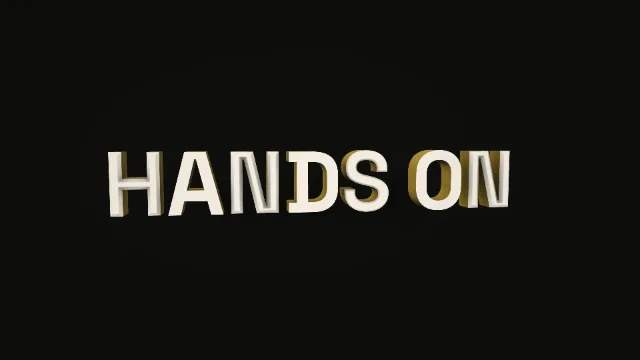
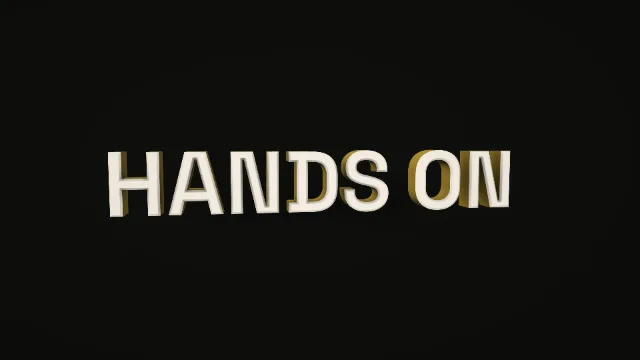
fix(stage): a headline is machined as one piece — one bevel across the line, counters cut with it
Scott's review caught glyphs wearing different chamfers: each contour had
chosen the largest bevel its own strokes allowed, and every counter (A, D, O)
had lost its bevel outright because the inset moved a counter the wrong way.
The counter now moves with its outer ring into the stroke, the line takes the
largest bevel every contour can carry (a hairline that can carry none
extrudes straight on its own without costing the line its bevel), and the
retry steps down by a fifth instead of halving. The geometry test proves one
side height across "HOME I"; the poster is refreshed.

diff --git a/src/lib/platform/pipelines/stage-type-geometry.ts b/src/lib/platform/pipelines/stage-type-geometry.ts
@@ -38,8 +38,9 @@ export const STAGE_TYPE_REGION_COUNT = 4;
 const BEVEL_MITER_LIMIT = 2.5;
 /** A bevel never eats more than this share of a ring's smallest half-width, so thin strokes keep a face. */
 const BEVEL_STROKE_SHARE = 0.6;
-/** An inset ring that crosses itself is retried at half the bevel this many times before the glyph goes unbevelled. */
-const BEVEL_RETRIES = 6;
+/** An inset that crosses its stroke is retried at this share of the bevel, this many times, before the contour goes unbevelled. */
+const BEVEL_RETRY_SHARE = 0.8;
+const BEVEL_RETRIES = 10;
 /** The largest area mismatch a cap's triangulation may show before the ring is treated as crossed. */
 const CAP_DEVIATION_LIMIT = 1e-3;
 
@@ -130,11 +131,14 @@ function outlineBounds(glyph: StageGlyphOutline): { minX: number; maxX: number }
 }
 
 /**
- * Inset a ring along its per-vertex edge normals by `amount`, miter-limited.
- * Null when the inset crossed the stroke — an edge turned back on itself or
- * the ring's area went the wrong way — so the caller can try a smaller bevel.
+ * Move a ring into the stroke by `amount` along its per-vertex edge normals,
+ * miter-limited. An outer ring (counter-clockwise) and a counter (clockwise)
+ * both move the same way — the normal convention already points away from
+ * the stroke on either — so an outer shrinks and a counter grows. Null when
+ * the inset crossed the stroke — an edge turned back on itself or the area
+ * went the wrong way — so the caller can try a smaller bevel.
  */
-function insetRing(ring: StageGlyphRing, amount: number, inward: 1 | -1): StageGlyphRing | null {
+function insetRing(ring: StageGlyphRing, amount: number, isCounter: boolean): StageGlyphRing | null {
 	const count = ring.length / 2;
 	const out: StageGlyphRing = new Array(ring.length);
 	for (let i = 0; i < count; i += 1) {
@@ -174,8 +178,8 @@ function insetRing(ring: StageGlyphRing, amount: number, inward: 1 | -1): StageG
 		// The miter length grows as the corner sharpens; cap it so a spike never crosses the stroke.
 		const cosHalf = Math.max(mx * n1x + my * n1y, 1 / BEVEL_MITER_LIMIT);
 		const distance = amount / cosHalf;
-		out[i * 2] = x - inward * mx * distance;
-		out[i * 2 + 1] = y - inward * my * distance;
+		out[i * 2] = x - mx * distance;
+		out[i * 2 + 1] = y - my * distance;
 	}
 	for (let i = 0; i < count; i += 1) {
 		const j = (i + 1) % count;
@@ -189,17 +193,17 @@ function insetRing(ring: StageGlyphRing, amount: number, inward: 1 | -1): StageG
 	const after = signedRingArea(out);
 	if (Math.sign(after) !== Math.sign(before)) return null;
 	const shrank = Math.abs(after) < Math.abs(before);
-	if (shrank !== (inward === 1)) return null;
+	if (shrank === isCounter) return null;
 	return out;
 }
 
 /** The inset front cap, or null when no bevel down to a hairline keeps the ring simple. */
 function insetContour(contour: StageGlyphContour, bevel: number): StageGlyphContour | null {
-	const outer = insetRing(contour.outer, bevel, 1);
+	const outer = insetRing(contour.outer, bevel, false);
 	if (!outer) return null;
 	const holes: StageGlyphRing[] = [];
 	for (const hole of contour.holes) {
-		const inset = insetRing(hole, bevel, -1);
+		const inset = insetRing(hole, bevel, true);
 		if (!inset) return null;
 		holes.push(inset);
 	}
@@ -303,44 +307,70 @@ function safeBevel(contour: StageGlyphContour, bevel: number): number {
 	return Math.min(bevel, smallest * BEVEL_STROKE_SHARE);
 }
 
-/**
- * Build one glyph's body: back cap on z = 0, sides to z = depth − bevel, the
- * chamfer to z = depth over an inset ring, and the front cap on the inset.
- */
-function appendGlyphBody(builder: MeshBuilder, contours: StageGlyphContour[], form: StageTypeForm, offsetX: number): void {
-	for (const contour of contours) {
-		const shifted: StageGlyphContour = {
-			outer: shiftRing(contour.outer, offsetX),
-			holes: contour.holes.map((hole) => shiftRing(hole, offsetX))
-		};
-		// The bevel this contour can carry: halved while its inset crosses the
-		// stroke, down to none — a hairline glyph extrudes straight rather than
-		// growing a spike.
-		let bevel = safeBevel(shifted, form.bevel);
-		let front: StageGlyphContour | null = null;
-		for (let attempt = 0; attempt < BEVEL_RETRIES && bevel > 1e-4; attempt += 1) {
-			front = insetContour(shifted, bevel);
-			if (front) break;
-			bevel /= 2;
-		}
-		if (!front) {
-			bevel = 0;
-			front = shifted;
-		}
-		const sideTop = Math.max(form.depth - bevel, 0);
-		appendCap(builder, shifted, 0, -1, STAGE_TYPE_REGION.back);
-		if (sideTop > 0) {
-			appendBand(builder, shifted.outer, sideTop, shifted.outer, 0, STAGE_TYPE_REGION.side, 1);
-			for (const hole of shifted.holes) appendBand(builder, hole, sideTop, hole, 0, STAGE_TYPE_REGION.side, 1);
-		}
-		if (bevel > 0) {
-			appendBand(builder, front.outer, form.depth, shifted.outer, sideTop, STAGE_TYPE_REGION.bevel, 1);
-			shifted.holes.forEach((hole, index) => {
-				appendBand(builder, front.holes[index], form.depth, hole, sideTop, STAGE_TYPE_REGION.bevel, 1);
-			});
-		}
-		appendCap(builder, front, form.depth, 1, STAGE_TYPE_REGION.face);
+/** The largest bevel one contour carries: its stroke's share, halved while the inset crosses the stroke, down to none. */
+function contourBevel(contour: StageGlyphContour, requested: number): number {
+	let bevel = safeBevel(contour, requested);
+	for (let attempt = 0; attempt < BEVEL_RETRIES && bevel > 1e-4; attempt += 1) {
+		if (insetContour(contour, bevel)) return bevel;
+		bevel *= BEVEL_RETRY_SHARE;
 	}
+	return 0;
+}
+
+/** Each contour's bevel and inset front cap. */
+interface StageTypeContourForm {
+	bevel: number;
+	front: StageGlyphContour;
+}
+
+/**
+ * One bevel for the whole line — a headline is machined as one piece, so
+ * every glyph carries the same chamfer: the largest every contour on the
+ * line can carry. A contour that can carry none at all (a hairline that
+ * would spike at any inset) extrudes straight on its own, and never costs
+ * the line its bevel.
+ */
+export function resolveLineBevel(
+	contours: readonly StageGlyphContour[],
+	requested: number
+): StageTypeContourForm[] {
+	const own = contours.map((contour) => contourBevel(contour, requested));
+	const carried = own.filter((bevel) => bevel > 0);
+	const line = carried.length > 0 ? Math.min(...carried) : 0;
+	return contours.map((contour, index) => {
+		if (own[index] === 0) return { bevel: 0, front: contour };
+		const front = insetContour(contour, line);
+		if (front) return { bevel: line, front };
+		// A smaller inset than one it accepted; fall back to its own rather than lose it.
+		const ownFront = insetContour(contour, own[index]);
+		return ownFront ? { bevel: own[index], front: ownFront } : { bevel: 0, front: contour };
+	});
+}
+
+/**
+ * Build one contour's body: back cap on z = 0, sides to z = depth − bevel,
+ * the chamfer to z = depth over the inset ring, and the front cap on it.
+ */
+function appendContourBody(
+	builder: MeshBuilder,
+	contour: StageGlyphContour,
+	front: StageGlyphContour,
+	bevel: number,
+	depth: number
+): void {
+	const sideTop = Math.max(depth - bevel, 0);
+	appendCap(builder, contour, 0, -1, STAGE_TYPE_REGION.back);
+	if (sideTop > 0) {
+		appendBand(builder, contour.outer, sideTop, contour.outer, 0, STAGE_TYPE_REGION.side, 1);
+		for (const hole of contour.holes) appendBand(builder, hole, sideTop, hole, 0, STAGE_TYPE_REGION.side, 1);
+	}
+	if (bevel > 0) {
+		appendBand(builder, front.outer, depth, contour.outer, sideTop, STAGE_TYPE_REGION.bevel, 1);
+		contour.holes.forEach((hole, index) => {
+			appendBand(builder, front.holes[index], depth, hole, sideTop, STAGE_TYPE_REGION.bevel, 1);
+		});
+	}
+	appendCap(builder, front, depth, 1, STAGE_TYPE_REGION.face);
 }
 
 function shiftRing(ring: StageGlyphRing, offsetX: number): StageGlyphRing {
@@ -376,12 +406,22 @@ export function buildStageTypeMesh(input: StageTypeMeshInput): StageTypeMesh {
 		depth: Math.max(input.form.depth, 0),
 		bevel: Math.max(Math.min(input.form.bevel, input.form.depth), 0)
 	};
+	const contours: StageGlyphContour[] = [];
 	for (const placement of line.glyphs) {
 		const glyph = input.typeface.glyphs.get(placement.codePoint);
 		if (!glyph || glyph.commands.length === 0) continue;
-		const contours = groupStageGlyphContours(flattenStageGlyph(glyph, input.typeface.capHeight));
-		appendGlyphBody(builder, contours, form, placement.x - centre);
+		const offsetX = placement.x - centre;
+		for (const contour of groupStageGlyphContours(flattenStageGlyph(glyph, input.typeface.capHeight))) {
+			contours.push({
+				outer: shiftRing(contour.outer, offsetX),
+				holes: contour.holes.map((hole) => shiftRing(hole, offsetX))
+			});
+		}
 	}
+	const forms = resolveLineBevel(contours, form.bevel);
+	contours.forEach((contour, index) => {
+		appendContourBody(builder, contour, forms[index].front, forms[index].bevel, form.depth);
+	});
 	const vertexCount = builder.positions.length / 3;
 	const vertices = new Float32Array(vertexCount * STAGE_MESH_VERTEX_FLOATS);
 	const min: [number, number, number] = [Infinity, Infinity, Infinity];

diff --git a/src/lib/platform/pipelines/stage-type-geometry.test.ts b/src/lib/platform/pipelines/stage-type-geometry.test.ts
@@ -92,6 +92,26 @@ describe('buildStageTypeMesh', () => {
 		assert.ok(bevel > 0.02 && bevel <= form.bevel + 1e-6, `bevel ${bevel}`);
 	});
 
+	it('machines one bevel across the line: every glyph shares the chamfer the thinnest stroke allows', () => {
+		const thin = buildStageTypeMesh({ typeface, text: 'I', form });
+		const line = buildStageTypeMesh({ typeface, text: 'HOME I', form });
+		const sideTops = (mesh: typeof line.mesh): number[] => {
+			const tops = new Set<number>();
+			for (let i = 0; i < mesh.vertexCount; i += 1) {
+				const offset = i * STAGE_MESH_VERTEX_FLOATS;
+				if (mesh.vertices[offset + 6] === STAGE_TYPE_REGION.side && mesh.vertices[offset + 2] > 0) {
+					tops.add(Math.round(mesh.vertices[offset + 2] * 1e6) / 1e6);
+				}
+			}
+			return [...tops];
+		};
+		// Every bevelled contour on the line stops its sides at the same height,
+		// and no higher than the thin stem alone allows.
+		const bevelled = sideTops(line.mesh).filter((z) => z < form.depth - 1e-6);
+		assert.equal(bevelled.length, 1, `one bevel on the whole line: ${sideTops(line.mesh)}`);
+		assert.ok(bevelled[0] <= sideTops(thin.mesh)[0] + 1e-6, 'no deeper than the thinnest stroke allows');
+	});
+
 	it('is deterministic', () => {
 		const first = buildStageTypeMesh({ typeface, text: 'Stage', form });
 		const second = buildStageTypeMesh({ typeface, text: 'Stage', form });

diff --git a/docs/adr/0062-dimensional-type-compiled-typefaces-and-the-first-overlay-body.md b/docs/adr/0062-dimensional-type-compiled-typefaces-and-the-first-overlay-body.md
@@ -20,7 +20,7 @@ Two things the first frames exposed shaped the rest. Fonts draw over themselves 
 
 2. **Outlines are resolved by the compiler.** `stage-glyph-outline.ts` flattens curves at a tolerance in cap heights (the same at every size), splits every contour at its own crossings into simple loops (`splitRingAtSelfIntersections`), and the compiler unions the loops wound with the glyph's outer winding and subtracts the counters (`polygon-clipping`, a development dependency). The file carries simple rings as line commands. `stage-glyph-outline.test.ts` proves every glyph of every registered face triangulates its caps exactly; a face that fails cannot be registered.
 
-3. **The geometry is ours and deterministic.** `stage-type-geometry.ts` shapes a line (advances plus pair kerning, in cap heights; a code point the face lacks is left out, never boxed), sorts a glyph's rings into outers and the counters they contain, triangulates the caps with `earcut`, and extrudes: the back cap on the plane, straight sides, a chamfer bevel over an inset ring, the front cap toward the eye — four material regions (face, bevel, side, back) in one `StageMeshData` the body pass draws like a compiled model. The mesh is in cap heights, centred on the line's visible extents, its baseline at y = 0. An inset that crosses its stroke — an edge turning back, an area going the wrong way, a cap that no longer triangulates exactly — is retried at half the bevel down to none, and a bevel never eats more than a share of a stroke's half-width, so a hairline extrudes straight rather than growing a spike. The same text in the same face at the same form yields the same bytes.
+3. **The geometry is ours and deterministic.** `stage-type-geometry.ts` shapes a line (advances plus pair kerning, in cap heights; a code point the face lacks is left out, never boxed), sorts a glyph's rings into outers and the counters they contain, triangulates the caps with `earcut`, and extrudes: the back cap on the plane, straight sides, a chamfer bevel over an inset ring, the front cap toward the eye — four material regions (face, bevel, side, back) in one `StageMeshData` the body pass draws like a compiled model. The mesh is in cap heights, centred on the line's visible extents, its baseline at y = 0. A headline is machined as one piece: every glyph on the line carries the same chamfer, the largest every contour can carry — a bevel never eats more than a share of a stroke's half-width, and an inset that crosses its stroke (an edge turning back, an area going the wrong way, a cap that no longer triangulates exactly) is retried smaller until it holds — while a hairline that can carry none extrudes straight on its own without costing the line its bevel. Counters move with their outer ring, so an O's inner chamfer is the same cut as its outer one. The same text in the same face at the same form yields the same bytes.
 
 4. **Dimensional type is an Overlay whose body the stage draws.** `dimensional-type` (`src/lib/pipelines/overlays/dimensional-type/`) declares `stageBody: true` in its definition and contributes a body through the new `OverlayStageBodyRenderer` contract: from its content (text, size as a cap height's share of the frame's short side, depth and bevel in cap heights, lift and lean), the Pack, the decoded typeface, and the Overlay's progress, it returns the mesh, the materials, the placement terms, its presence, and that it pulls focus. `partitionStageOverlays` now returns `bodies` beside `shared` and `posed`; a body Overlay leaves every capture root (`Composition.svelte` excludes it from the shared plane and mounts no posed root), so no plane ever paints it — the stage owns its pixels. Off the stage it renders a flat DOM fallback in the Pack's face and ink, so a composition that drops the stage still reads. Its Editor exposes the same six fields the schema carries.
 
